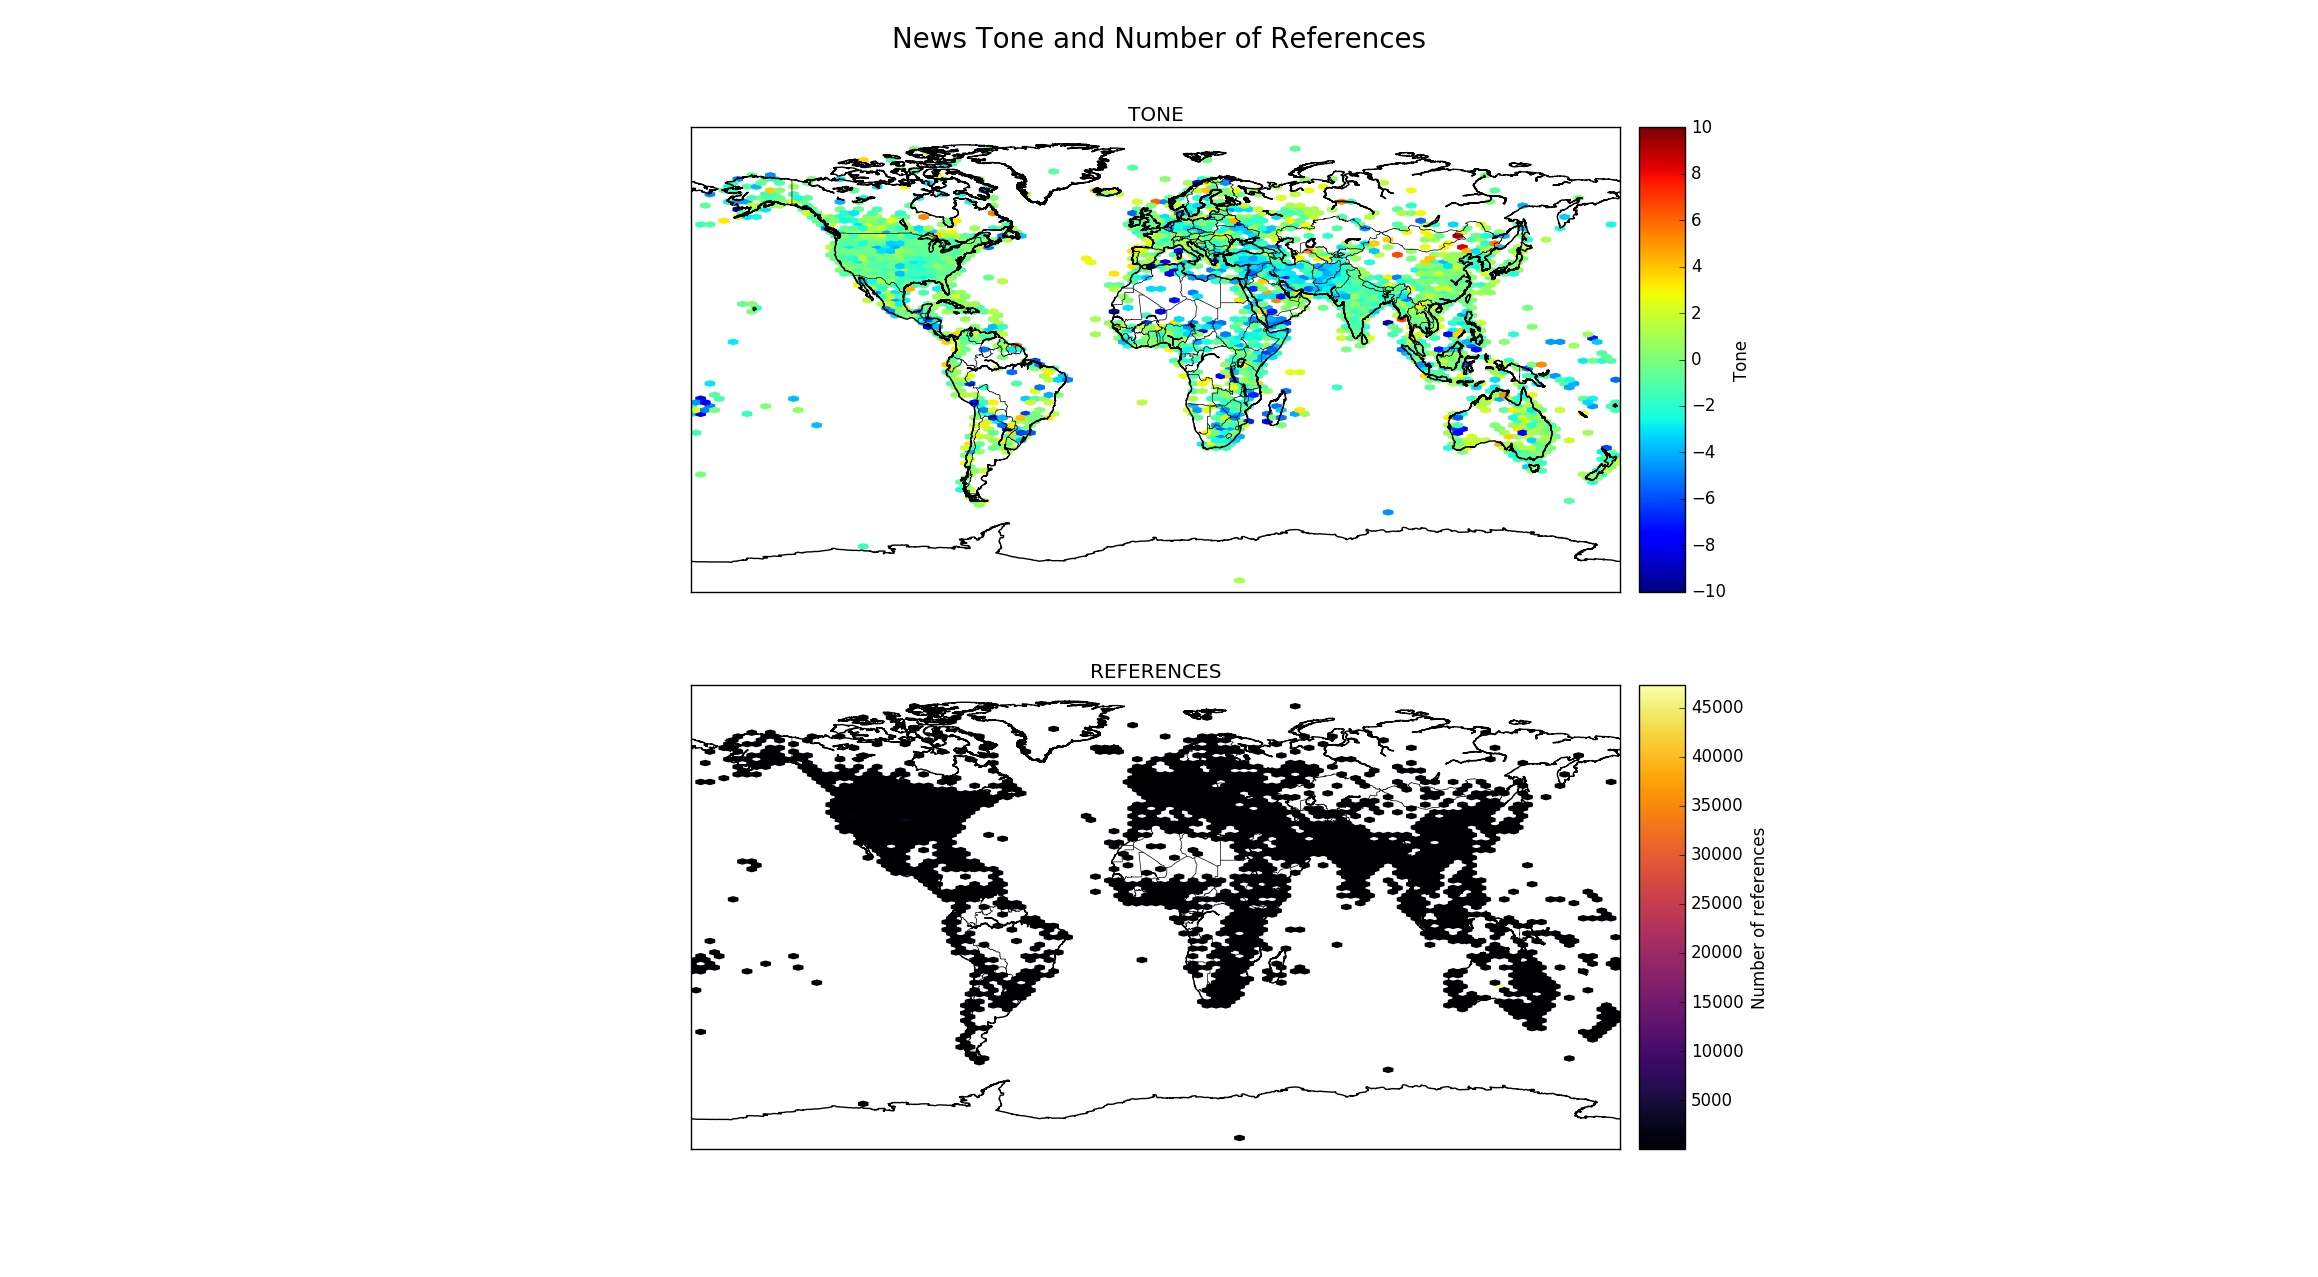
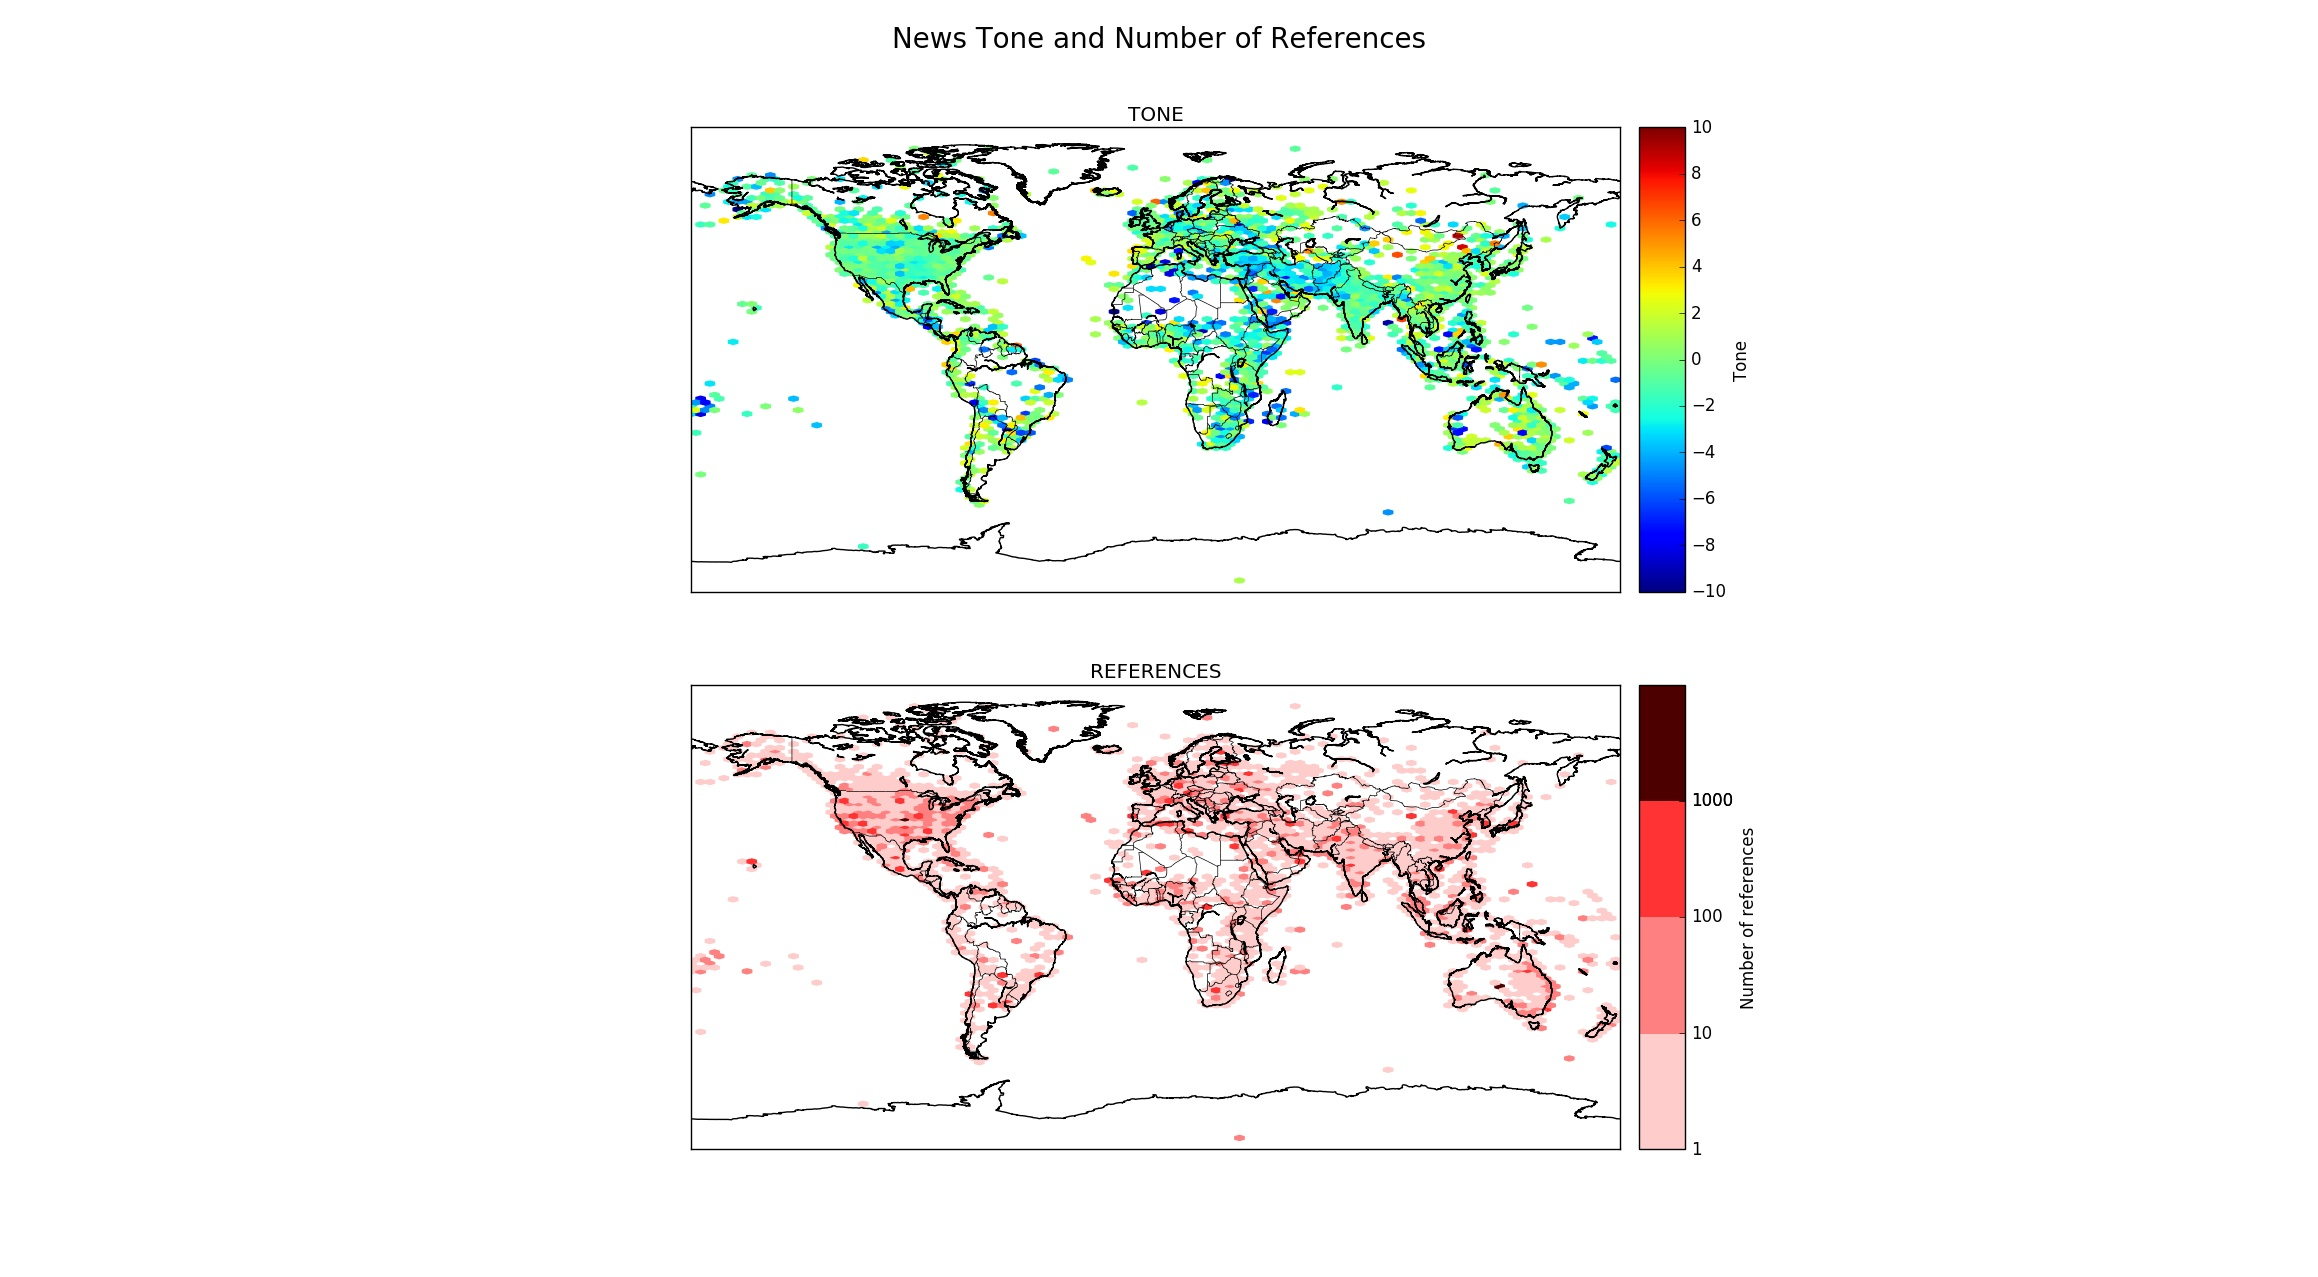
Fixed references scale

Changed region(s): [[0.4659, 0.5192, 0.7765, 0.9162], [0.3106, 0.5497, 0.4659, 0.8246], [0.2796, 0.733, 0.3106, 0.7635]]

diff --git a/HeatMap.py b/HeatMap.py
@@ -3,6 +3,7 @@ import numpy as np
 import matplotlib
 import matplotlib.pyplot as plt
 import math
+from matplotlib import colors
 
 #Number of bins for our plot
 
@@ -70,9 +71,14 @@ plt.title("TONE")
 
 ###Second Plot###
 
+#Heatmap for the second plot
+cmap = colors.ListedColormap(['#ffcccc','#ff8080','#ff3333','#cc0000','#4d0000'])
+bounds=[1, 10, 100, 1000, 1000]
+norm = colors.BoundaryNorm(bounds, cmap.N)
+
 #Adding hexbin for number times that location was referenced in the news
 ax = fig.add_subplot(212)
-map.hexbin(x,y, C = d, cmap = 'inferno')
+map.hexbin(x,y, C = d, cmap = cmap, norm = norm)
 
 #Adding color bar at the bottom
 colbar2 = map.colorbar(location= 'right')
